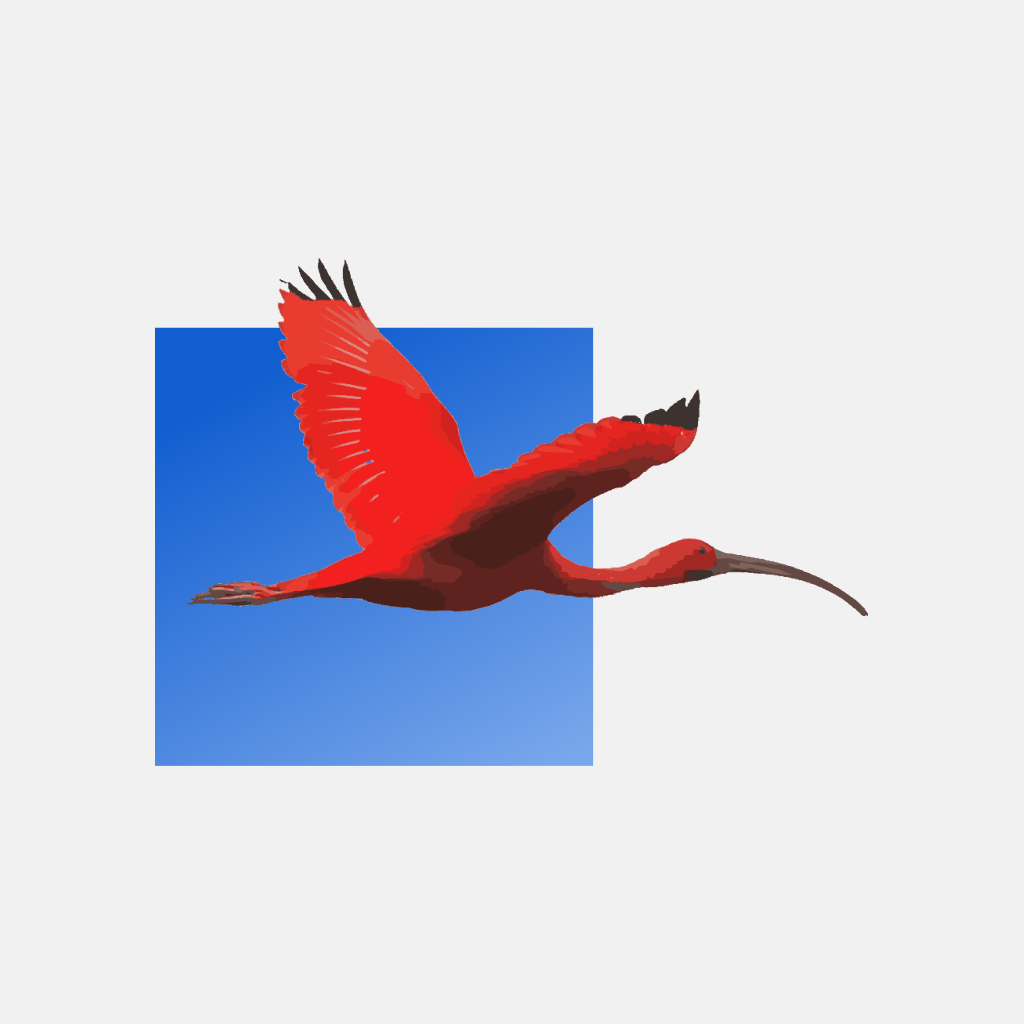
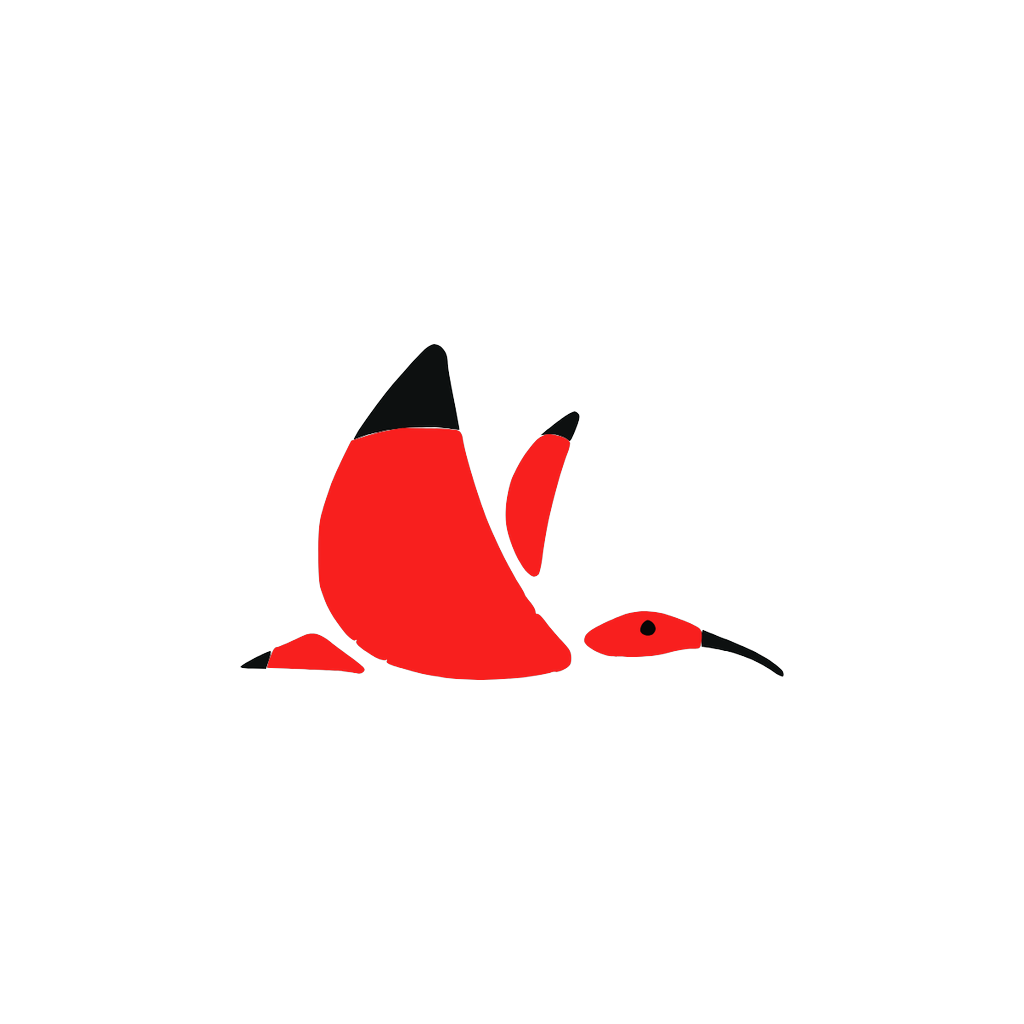
feat(icone): novo ícone do aplicativo com guará sobre fundo azul

Changed region(s): [[0.125, 0.25, 0.7812, 0.75], [0.7812, 0.5625, 0.8438, 0.5938]]

diff --git a/app.config.js b/app.config.js
@@ -48,7 +48,7 @@ export default {
 			],
 			adaptiveIcon: {
 				foregroundImage: './src/assets/images/adaptive_icon.png',
-				backgroundColor: '#F1F1F1',
+				backgroundColor: '#7FA8E6',
 			},
 			softwareKeyboardLayoutMode: 'pan',
 		},
